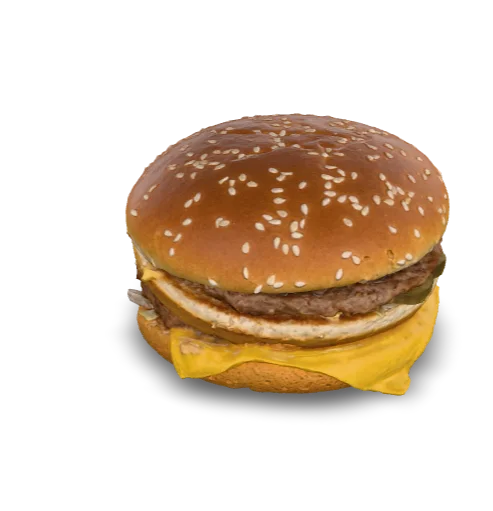
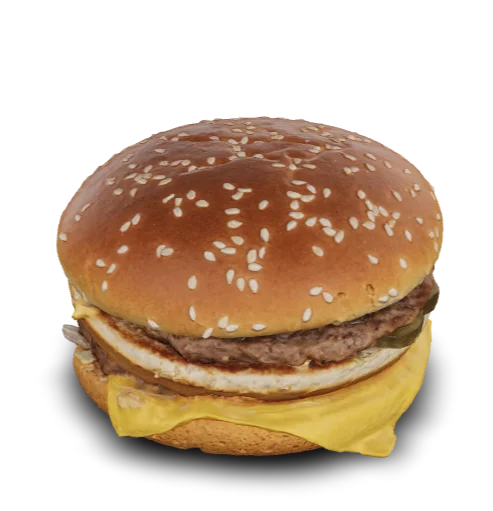
Add files via upload

diff --git a/styles.css b/styles.css
@@ -2,71 +2,108 @@
   display: none;
 }
 
-html, body {
+html {
+  height: 100%;
+}
+
+body {
   margin: 0;
   padding: 0;
   width: 100%;
   height: 100%;
-  background-color: transparent;
 }
 
 model-viewer {
   width: 100%;
-  height: 100vh;
-  background-color: transparent;
-  --poster-color: transparent;
+  height: 90%;
+  background-color: #ffffff;
+}
+
+
+.progress-bar {
+  display: block;
+  width: 33%;
+  height: 10%;
+  max-height: 2%;
+  position: absolute;
+  left: 50%;
+  top: 50%;
+  transform: translate3d(-50%, -50%, 0);
+  border-radius: 25px;
+  box-shadow: 0px 3px 10px 3px rgba(0, 0, 0, 0.5), 0px 0px 5px 1px rgba(0, 0, 0, 0.6);
+  border: 1px solid rgba(255, 255, 255, 0.9);
+  background-color: rgba(0, 0, 0, 0.5);
+}
+
+.progress-bar.hide {
+  visibility: hidden;
+  transition: visibility 0.3s;
+}
+
+.update-bar {
+  background-color: rgba(255, 255, 255, 0.9);
+  width: 0%;
+  height: 100%;
+  border-radius: 25px;
+  float: left;
+  transition: width 0.3s;
 }
 
 #ar-button {
+  background-image: url(ar_icon.png);
+  background-repeat: no-repeat;
+  background-size: 20px 20px;
+  background-position: 12px 50%;
   background-color: #fff;
   position: absolute;
   left: 50%;
   transform: translateX(-50%);
-  bottom: 50px;
-  padding: 12px 24px;
-  font-family: Arial, sans-serif;
-  font-size: 16px;
-  font-weight: bold;
-  color: #4285f4;
-  border-radius: 25px;
+  white-space: nowrap;
+  bottom: 16px;
+  padding: 0px 16px 0px 40px;
+  font-family: Roboto Regular, Helvetica Neue, sans-serif;
+  font-size: 14px;
+  color:#4285f4;
+  height: 36px;
+  line-height: 36px;
+  border-radius: 18px;
   border: 1px solid #DADCE0;
-  box-shadow: 0 4px 10px rgba(0,0,0,0.3);
-  z-index: 1000;
-  cursor: pointer;
 }
 
-/* Скрываем всё лишнее в момент работы AR, чтобы освободить память */
-model-viewer[ar-status="session-started"] #ar-button {
-  display: none;
+#ar-button:active {
+  background-color: #E8EAED;
 }
 
-#ar-prompt {
+#ar-button:focus {
+  outline: none;
+}
+
+#ar-button:focus-visible {
+  outline: 1px solid #4285f4;
+}
+
+@keyframes circle {
+  from { transform: translateX(-50%) rotate(0deg) translateX(50px) rotate(0deg); }
+  to   { transform: translateX(-50%) rotate(360deg) translateX(50px) rotate(-360deg); }
+}
+
+@keyframes elongate {
+  from { transform: translateX(100px); }
+  to   { transform: translateX(-100px); }
+}
+
+model-viewer > #ar-prompt {
   position: absolute;
   left: 50%;
-  top: 50%;
-  transform: translate(-50%, -50%);
+  bottom: 60px;
+  animation: elongate 2s infinite ease-in-out alternate;
   display: none;
-  pointer-events: none;
 }
 
-model-viewer[ar-status="session-started"] #ar-prompt {
+model-viewer[ar-status="session-started"] > #ar-prompt {
   display: block;
 }
 
-#ar-prompt img {
-  width: 80px;
-  animation: scan 2s infinite ease-in-out;
+model-viewer > #ar-prompt > img {
+  animation: circle 4s linear infinite;
 }
-
-@keyframes scan {
-  0% { transform: translateX(-50px) rotate(-15deg); }
-  50% { transform: translateX(50px) rotate(15deg); }
-  100% { transform: translateX(-50px) rotate(-15deg); }
-}
-
-.progress-bar {
-  position: absolute;
-  left: 0; top: 0; width: 100%; height: 4px;
-}
-.update-bar { background: #4285f4; height: 100%; width: 0; }
-.hide { display: none; }

diff --git a/index.html b/index.html
@@ -1,41 +1,27 @@
 <!doctype html>
-<html lang="ru">
+<html lang="en">
   <head>
-    <title>AR Burger Menu</title>
+    <title>&lt;model-viewer&gt; template</title>
     <meta charset="utf-8">
+    <meta name="description" content="&lt;model-viewer&gt; template">
     <meta name="viewport" content="width=device-width, initial-scale=1">
     <link type="text/css" href="./styles.css" rel="stylesheet"/>
   </head>
   <body>
-    
-    <model-viewer 
-        id="burger-model"
-        src="Hamburger2.glb" 
-        ar 
-        ar-modes="webxr scene-viewer quick-look" 
-        ar-placement="floor"
-        camera-controls 
-        tone-mapping="neutral" 
-        poster="poster.webp" 
-        shadow-intensity="1" 
-        exposure="0.8" 
-        camera-target="0m 0.05m 0m"
-        touch-action="pan-y">
-      
+    <!-- <model-viewer> HTML element -->
+    <model-viewer src="Hamburger2.glb" ar ar-modes="scene-viewer webxr quick-look" camera-controls tone-mapping="aces" poster="poster.webp" shadow-intensity="1.99" exposure="0.69" camera-orbit="-233.4deg 64.92deg 0.3292m" field-of-view="30deg" shadow-softness="1">
       <div class="progress-bar hide" slot="progress-bar">
           <div class="update-bar"></div>
       </div>
-
       <button slot="ar-button" id="ar-button">
-          ПОСМОТРЕТЬ НА СТОЛЕ
+          View in your space
       </button>
-
-      <div id="ar-prompt" slot="ar-prompt">
+      <div id="ar-prompt">
           <img src="ar_hand_prompt.png">
       </div>
     </model-viewer>  
-
     <script src="script.js"></script>
+    <!-- Loads <model-viewer> for browsers: -->
     <script type="module" src="https://ajax.googleapis.com/ajax/libs/model-viewer/4.0.0/model-viewer.min.js"></script>
   </body>
 </html>

diff --git a/script.js b/script.js
@@ -1,19 +1,13 @@
-const modelViewer = document.querySelector('#burger-model');
-
-// Динамическая смена моделей для QR-кодов
-const urlParams = new URLSearchParams(window.location.search);
-const modelName = urlParams.get('model');
-if (modelName) {
-    modelViewer.src = `${modelName}.glb`;
-    modelViewer.poster = `${modelName}.webp`;
-}
-
-// Полоска загрузки
-modelViewer.addEventListener('progress', (event) => {
-  const progressBar = document.querySelector('.progress-bar');
-  const updatingBar = document.querySelector('.update-bar');
+// Handles loading the events for <model-viewer>'s slotted progress bar
+const onProgress = (event) => {
+  const progressBar = event.target.querySelector('.progress-bar');
+  const updatingBar = event.target.querySelector('.update-bar');
   updatingBar.style.width = `${event.detail.totalProgress * 100}%`;
   if (event.detail.totalProgress === 1) {
     progressBar.classList.add('hide');
+    event.target.removeEventListener('progress', onProgress);
+  } else {
+    progressBar.classList.remove('hide');
   }
-});
+};
+document.querySelector('model-viewer').addEventListener('progress', onProgress);
